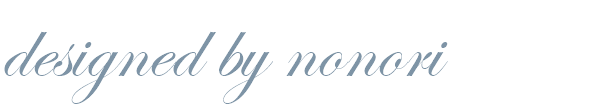
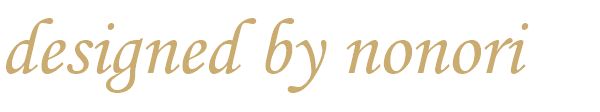
Polish signature in gold for the bilingual release

diff --git a/RELEASE-v2.1.0.md b/RELEASE-v2.1.0.md
@@ -1,4 +1,4 @@
-# Peripheral AUTO Control Center | 外设AUTO控制中心 v2.1.0
+# Peripheral AUTO Control Center | 外设AUTO控制中心 v2.1.0
 
 **By Nonori · English & 简体中文**
 
@@ -24,7 +24,7 @@ Download **one of the EXEs** for normal use. No installer required. Intended for
 - Full English interface: navigation, card descriptions, search prompts, and application messages.
 - Separate Chinese and English downloads with the same functionality.
 - Longer English app titles wrap to fit the cards.
-- A discreet calligraphic **designed by nonori** signature beneath the main headline in both editions.
+- A small, readable gold calligraphic **designed by nonori** signature beneath the main headline in both editions.
 - Expanded English overview, dedicated Chinese guide, quick-start steps, download choices, FAQ, and community feedback guidance.
 - Updated source and build script that can produce both editions.
 
